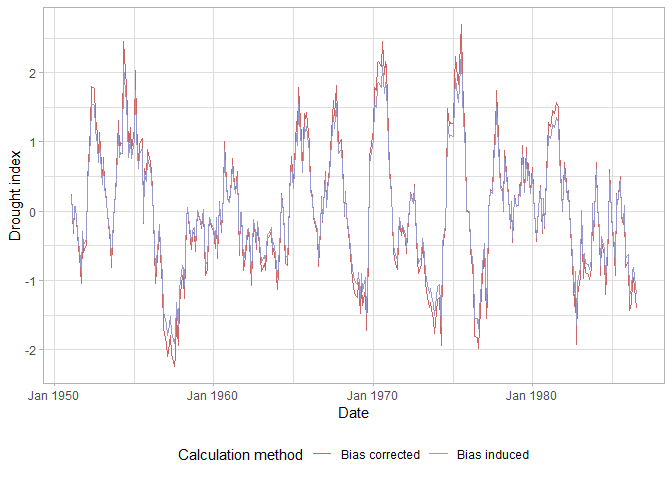
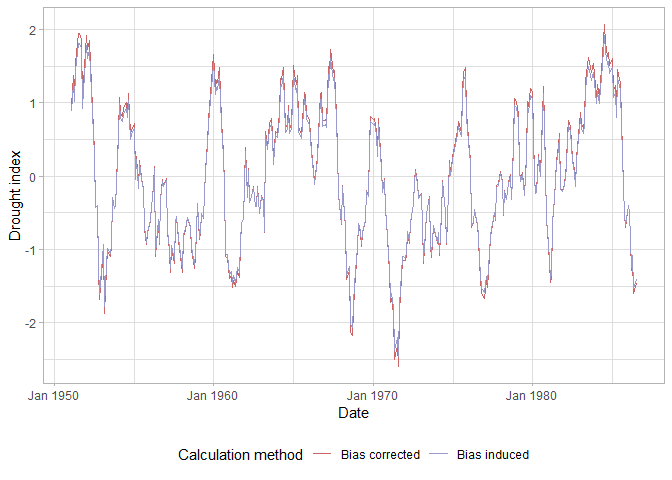
updating documentation and adding biasmeasurement

Changed region(s): [[0.0312, 0.0625, 0.9688, 0.75], [0.0312, 0.5625, 0.0625, 0.5938], [0.0312, 0.3438, 0.0625, 0.375]]

diff --git a/README.md b/README.md
@@ -33,8 +33,9 @@ rain = dummyrainfall(startYear = 1950, endYear = 2010)
 drought = computenspi(monthlyRainfall = rain, stationary = FALSE, spiScale = 12)
 ```
 
-    ## GAMLSS-RS iteration 1: Global Deviance = 3351.123 
-    ## GAMLSS-RS iteration 2: Global Deviance = 3351.123
+    ## GAMLSS-RS iteration 1: Global Deviance = 3490.23 
+    ## GAMLSS-RS iteration 2: Global Deviance = 3489.835 
+    ## GAMLSS-RS iteration 3: Global Deviance = 3489.835
 
 ``` r
 # Plot NSPI
@@ -54,30 +55,30 @@ rain = oossplit(x = rain, trainratio = 0.6, validationratio = 0.2, testratio = 0
 print(rain)
 ```
 
-    ##          Date Rainfall AccumPrecip Trend       mu      sigma     ecdfm
-    ##   1: Jan 1950 8.963740          NA    NA       NA         NA        NA
-    ##   2: Feb 1950 6.842699          NA    NA       NA         NA        NA
-    ##   3: Mar 1950 9.733336          NA    NA       NA         NA        NA
-    ##   4: Apr 1950 9.281883          NA    NA       NA         NA        NA
-    ##   5: May 1950 5.991393          NA    NA       NA         NA        NA
-    ##  ---                                                                  
-    ## 606: Jul 2010 6.596219    95.75331   595 94.44552 0.04640350 0.6226657
-    ## 607: Aug 2010 8.370766    97.19793   596 94.44070 0.04642140 0.7383734
-    ## 608: Sep 2010 6.576684    93.82330   597 94.43589 0.04643931 0.4504604
-    ## 609: Oct 2010 7.930722    93.67659   598 94.43107 0.04645722 0.4376445
-    ## 610: Nov 2010 7.884576    93.43627   599 94.42626 0.04647514 0.4164924
-    ##            NSPI Split
-    ##   1:         NA  <NA>
-    ##   2:         NA  <NA>
-    ##   3:         NA  <NA>
-    ##   4:         NA  <NA>
-    ##   5:         NA  <NA>
-    ##  ---                 
-    ## 606:  0.3124895  Test
-    ## 607:  0.6383388  Test
-    ## 608: -0.1244981  Test
-    ## 609: -0.1569439  Test
-    ## 610: -0.2108750  Test
+    ##          Date  Rainfall AccumPrecip Trend       mu      sigma     ecdfm
+    ##   1: Jan 1950  6.965374          NA    NA       NA         NA        NA
+    ##   2: Feb 1950  8.866148          NA    NA       NA         NA        NA
+    ##   3: Mar 1950  6.760097          NA    NA       NA         NA        NA
+    ##   4: Apr 1950  9.586144          NA    NA       NA         NA        NA
+    ##   5: May 1950 10.345658          NA    NA       NA         NA        NA
+    ##  ---                                                                   
+    ## 606: Jul 2010  8.310440    94.50662   595 96.78736 0.05924498 0.3515557
+    ## 607: Aug 2010  8.015038    94.49980   596 96.78874 0.05929471 0.3511495
+    ## 608: Sep 2010  9.802627    96.69054   597 96.79013 0.05934449 0.5009733
+    ## 609: Oct 2010  6.603372    95.78891   598 96.79152 0.05939430 0.4383357
+    ## 610: Nov 2010  5.848476    94.46632   599 96.79291 0.05944416 0.3490868
+    ##              NSPI Split
+    ##   1:           NA  <NA>
+    ##   2:           NA  <NA>
+    ##   3:           NA  <NA>
+    ##   4:           NA  <NA>
+    ##   5:           NA  <NA>
+    ##  ---                   
+    ## 606: -0.381123905  Test
+    ## 607: -0.382218831  Test
+    ## 608:  0.002439664  Test
+    ## 609: -0.155190163  Test
+    ## 610: -0.387787221  Test
 
 #### Bias measurement
 
@@ -94,6 +95,11 @@ computed using the training data only; we call this as “Bias Corrected”
 computation and 2) SPI is computed using the entire data; we call this
 as “Bias Induced” computation.
 
+We measure bias by computing the number of miss-classifications in the
+training set due to the incorrect computation of the index. We also
+measure the number of records impacted and share a plot of the two
+computational approaches.
+
 ``` r
 # Generate synthetic monthly rainfall data using the Gamma distribution
 rain = dummyrainfall(startYear = 1950, endYear = 2010)
@@ -105,21 +111,20 @@ bias
 
     ## $Transitions
     ##     Bias Corrected Class Bias Induced Class   N
-    ##  1:          Near Normal        Near Normal 227
-    ##  2:       Moderately Dry        Near Normal  17
-    ##  3:       Moderately Wet        Near Normal  15
-    ##  4:       Moderately Wet     Moderately Wet  24
-    ##  5:             Very Wet           Very Wet  12
-    ##  6:        Extremely Wet      Extremely Wet   3
-    ##  7:        Extremely Wet           Very Wet   8
-    ##  8:             Very Dry     Moderately Dry   6
-    ##  9:             Very Dry           Very Dry   9
-    ## 10:        Extremely Dry           Very Dry   6
-    ## 11:       Moderately Dry     Moderately Dry  22
-    ## 12:             Very Wet     Moderately Wet   6
+    ##  1:       Moderately Wet        Near Normal   7
+    ##  2:       Moderately Wet     Moderately Wet  38
+    ##  3:             Very Wet     Moderately Wet  12
+    ##  4:             Very Wet           Very Wet  12
+    ##  5:        Extremely Wet           Very Wet   2
+    ##  6:          Near Normal        Near Normal 219
+    ##  7:       Moderately Dry     Moderately Dry  39
+    ##  8:             Very Dry           Very Dry  13
+    ##  9:       Moderately Dry        Near Normal   5
+    ## 10:             Very Dry     Moderately Dry   3
+    ## 11:        Extremely Dry      Extremely Dry   5
     ## 
     ## $`Impacted Records`
-    ## [1] "16.34% of records changed drought class"
+    ## [1] "8.17% of records changed drought class"
     ## 
     ## $Plot
 
